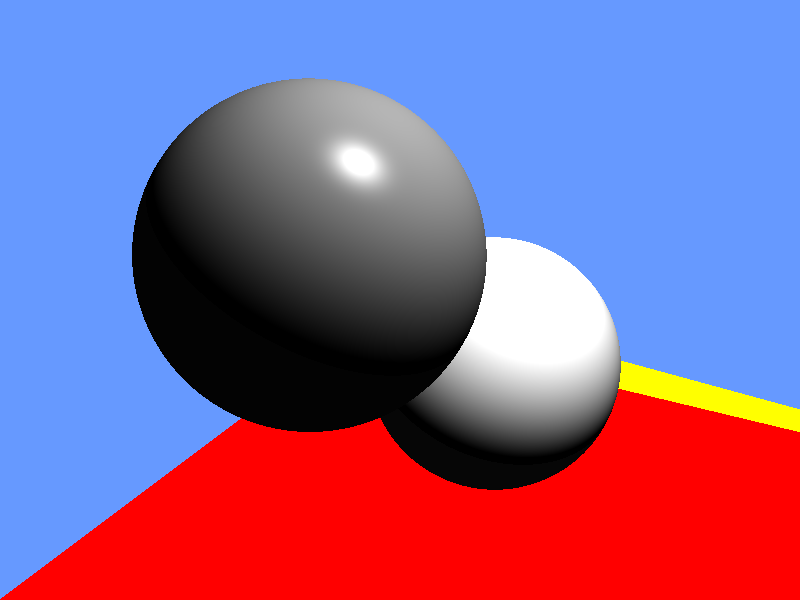
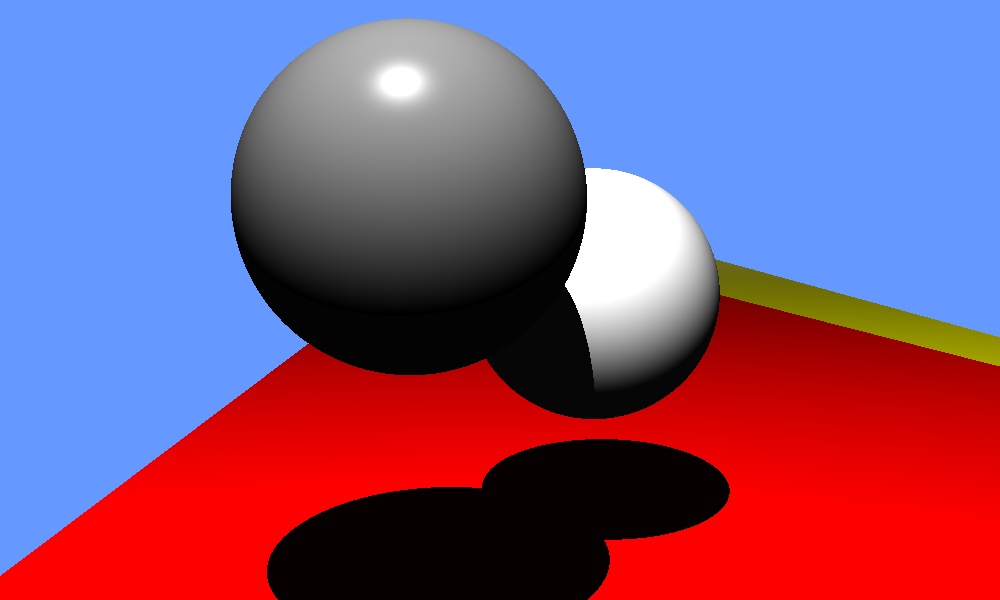
Code cleanup. Fixed triangle normals. Finished scene placement for now. Base assignment done. Moving onto extras.

diff --git a/raytracer/src/main.rs b/raytracer/src/main.rs
@@ -53,13 +53,13 @@ fn main() {
 }
 
 fn create_camera() -> Camera {
-    let camera_pos = Vec3::new(0.0, 0.0, 10.0);
-    let look_at = Vec3::new(0.0, 0.0, 0.0);
+    let camera_pos = Vec3::new(0.0, 6.0, 10.0);
+    let look_at = Vec3::new(0.0, 5.0, 0.0);
     let up = Vec3::new(0.0, 1.0, 0.0);
 
     let focal_length = 5.0;
-    let img_dim = (800, 600);
-    let film_plane_dim = (4, 3);
+    let img_dim = (1000, 600);
+    let film_plane_dim = (5, 3);
 
     Camera::new(
         camera_pos,
@@ -74,7 +74,7 @@ fn create_camera() -> Camera {
 fn create_lights() -> Vec<LightSource> {
     let mut lights = vec![];
 
-    let main_light_pos = Vec3::new(5.0, 10.0, 5.0);
+    let main_light_pos = Vec3::new(-1.0, 20.0, 10.0);
     let main_light_radiance = Vec3::new(2.0, 2.0, 2.0);
     let main_light_ambient = Vec3::new(0.25, 0.25, 0.25);
 
@@ -83,16 +83,6 @@ fn create_lights() -> Vec<LightSource> {
         main_light_radiance,
         main_light_ambient,
     ));
-
-    // let red_light_pos = Vec3::new(-5.0, 5.0, 5.0);
-    // let red_light_radiance = Vec3::new(0.5, 0.1, 0.1);
-    // let red_light_ambient = Vec3::new(0.25, 0.0, 0.0);
-
-    // lights.push(LightSource::new(
-    //     red_light_pos,
-    //     red_light_radiance,
-    //     red_light_ambient,
-    // ));
 
     lights
 }
@@ -117,11 +107,11 @@ fn create_floor() -> (Triangle, Triangle) {
     let mut triangle_l = Triangle::new((tl_v1, tl_v2, tl_v3), triangle_l_material);
     let mut triangle_r = Triangle::new((tr_v1, tr_v2, tr_v3), triangle_r_material);
 
-    triangle_l.translate_mut(Vec3::new(-8.0, -6.0, -10.0));
+    triangle_l.translate_mut(Vec3::new(-8.0, 0.0, 0.0));
     triangle_l.scale_mut(Vec3::new(30.0, 200.0, 1.0));
     triangle_l.rotate_x_mut(-90.0);
 
-    triangle_r.translate_mut(Vec3::new(-8.0, -6.0, -10.0));
+    triangle_r.translate_mut(Vec3::new(-8.0, 0.0, 0.0));
     triangle_r.scale_mut(Vec3::new(30.0, 200.0, 1.0));
     triangle_r.rotate_x_mut(-90.0);
 
@@ -143,10 +133,10 @@ fn create_spheres() -> (Sphere, Sphere) {
     let sphere_pos = Vec3::new(0.0, 0.0, 0.0);
 
     let mut sphere_gray = Sphere::new(sphere_pos, sphere_radius, sphere_1_material);
-    sphere_gray.translate_mut(Vec3::new(-1.0, 0.5, -1.5));
+    sphere_gray.translate_mut(Vec3::new(-1.0, 6.0, -1.5));
 
     let mut sphere_white = Sphere::new(sphere_pos, sphere_radius, sphere_2_material);
-    sphere_white.translate_mut(Vec3::new(1.5, -1.0, -6.0));
+    sphere_white.translate_mut(Vec3::new(1.5, 4.5, -6.0));
 
     (sphere_gray, sphere_white)
 }

diff --git a/raytracer/src/lighting/illumination/phong.rs b/raytracer/src/lighting/illumination/phong.rs
@@ -30,12 +30,12 @@ impl IlluminationModel for Phong {
         }
         avg_amb /= world.lights.len() as f32;
 
-        let amb_r = mat_r * avg_amb.x * self.ka;
-        let amb_g = mat_g * avg_amb.y * self.ka;
-        let amb_b = mat_b * avg_amb.z * self.ka;
+        let amb_r = mat_r * avg_amb.x;
+        let amb_g = mat_g * avg_amb.y;
+        let amb_b = mat_b * avg_amb.z;
 
         // default radiance is just the ambient color
-        let mut radiance = Vec3::new(amb_r, amb_g, amb_b);
+        let mut radiance = self.ka * Vec3::new(amb_r, amb_g, amb_b);
 
         let mut total_diff_r = 0.0;
         let mut total_diff_g = 0.0;
@@ -70,7 +70,8 @@ impl IlluminationModel for Phong {
 
             // specular calculation
             let r_i = s_i.reflect(intersection.normal).normalize();
-            let spec_factor = r_i.dot(view_dir).powf(self.ke);
+            let spec_angle = r_i.dot(view_dir);
+            let spec_factor = spec_angle.powf(self.ke);
 
             total_spec_r += l_r * mat_s_r * spec_factor;
             total_spec_g += l_g * mat_s_g * spec_factor;

diff --git a/raytracer/src/world/camera.rs b/raytracer/src/world/camera.rs
@@ -97,11 +97,11 @@ impl Camera {
                     radiance = ill_model.illuminate(world, &int, self.position);
                 }
 
-                *rendered.get_pixel_mut(x, y) = image::Rgb([
-                    (radiance.x * 255.0) as u8,
-                    (radiance.y * 255.0) as u8,
-                    (radiance.z * 255.0) as u8,
-                ]);
+                let r = (radiance.x * 255.0).min(255.0);
+                let g = (radiance.y * 255.0).min(255.0);
+                let b = (radiance.z * 255.0).min(255.0);
+
+                *rendered.get_pixel_mut(x, y) = image::Rgb([r as u8, g as u8, b as u8]);
             }
 
             curr_position.x = x_start;

diff --git a/raytracer/src/geometry/primitives/triangle.rs b/raytracer/src/geometry/primitives/triangle.rs
@@ -106,7 +106,7 @@ impl Object for Triangle {
             return None;
         }
 
-        let factor = 1.0 / (p.dot(e1));
+        let factor = 1.0 / den;
         let vect = Vec3::new(q.dot(e2), p.dot(t), q.dot(ray.direction));
 
         let intersect = factor * vect;
@@ -122,7 +122,7 @@ impl Object for Triangle {
         }
 
         let intersection_point = ray.origin + intersect.x * ray.direction;
-        let norm = e1.cross(e2);
+        let norm = e1.cross(e2).normalize();
 
         Some(Intersection::new(intersection_point, norm, self.material))
     }

diff --git a/raytracer/src/world/mod.rs b/raytracer/src/world/mod.rs
@@ -63,7 +63,7 @@ impl World {
     }
 
     pub fn can_see_light(&self, intersection: &Intersection, light_pos: Vec3) -> bool {
-        let offset_origin = intersection.intersection_point + intersection.normal * 0.01;
+        let offset_origin = intersection.intersection_point + intersection.normal * 0.001;
         let ray = Ray::new(
             offset_origin,
             (light_pos - intersection.intersection_point).normalize(),
